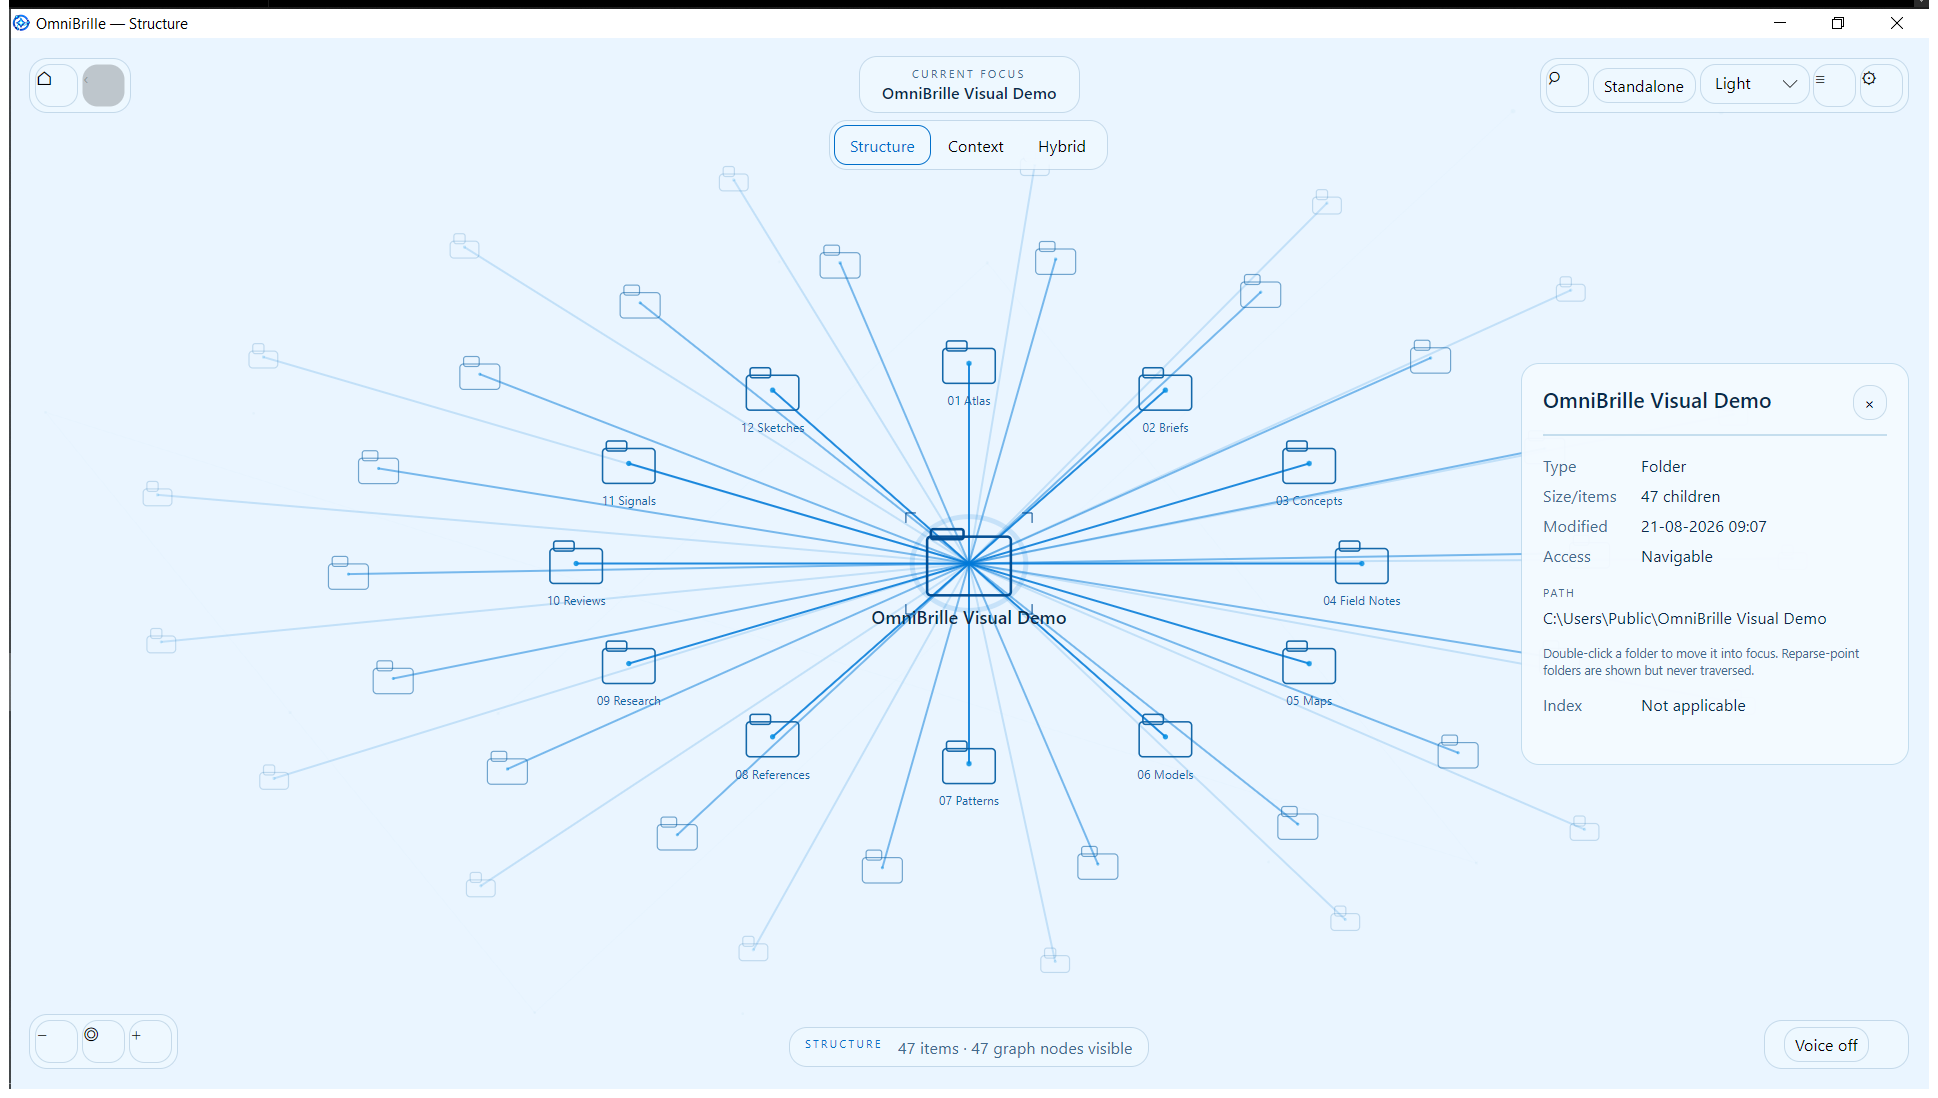
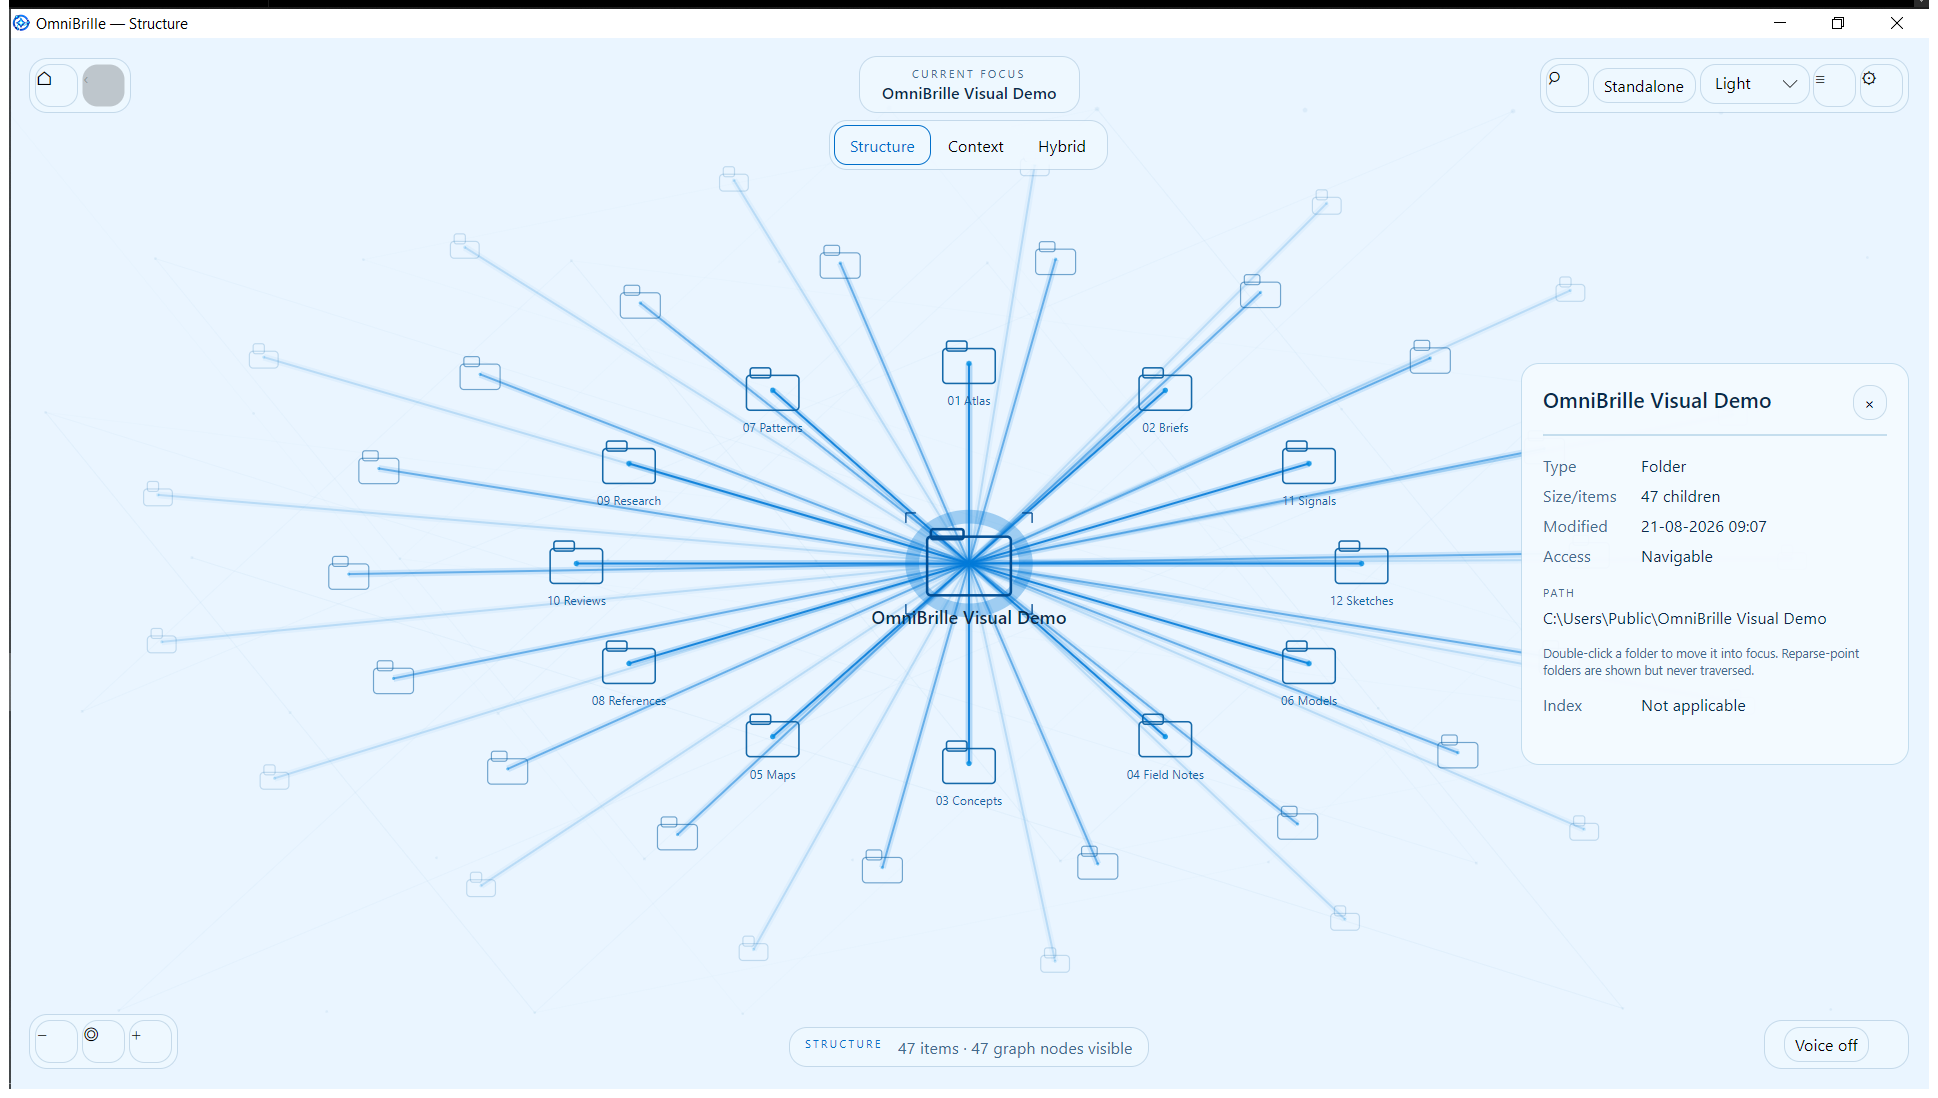
docs: capture default v1.1 visual presentation

diff --git a/docs/assets/screenshots/README.md b/docs/assets/screenshots/README.md
@@ -6,15 +6,15 @@ The `v1.1-*.png` files are real captures of an installed Windows x64 `1.1.0` can
 
 - Capture date: 2026-08-21.
 - Host: Windows 10 build 19045 at 125% display scaling.
-- Visible application commit: `04c6f363f0efd880573e0c1481dbda627cc8e37e`.
[1 lines of base64/hex data omitted]
+- Visible application commit: `d4dfd83e14a855cf50a3b65290b0aacfdf75f845`.
[2 lines of base64/hex data omitted]
 - Executable metadata: file version `1.1.0.0`, product version `1.1.0`.
 - Demo roots: `C:\Users\Public\OmniBrille Visual Demo` and its `09 Research` child.
 - Data: purpose-built generic folders; no personal content, user-profile path, diagnostics, OmniSorSe session, or voice data.
 - Views: dense Dark Structure, dense Light Structure, structural Search for `Research`, nested focus/details, and the synchronized accessible list.
 
-The captures use a Per-Monitor-V2-aware process and the physical Win32 window bounds so the complete 125%-DPI window is represented. They were inspected at full size for native window chrome; floating navigation, mode, Search, utility, zoom, status, voice, and details/list surfaces; graph nodes, labels, outlined glyphs, edges, focus reticle, Search emphasis, and theme contrast. The same installed candidate exercised arrow/Enter navigation, Alt+Left Back, `Ctrl+F` Search, `Ctrl+Shift+L` list access, normal close/relaunch, a real progressive 5,000-file load, and the supported 820-by-520 logical minimum window. Automated headless coverage, rather than this capture session, exercised 100/125/150/200% text scaling and reduced-motion/effects behavior. No screen reader was used.
+The captures use a Per-Monitor-V2-aware process and the physical Win32 window bounds so the complete 125%-DPI window is represented. They use the documented fresh-user visual defaults: Reduced Motion off and Reduced Visual Effects off. They were inspected at full size for native window chrome; floating navigation, mode, Search, utility, zoom, status, voice, and details/list surfaces; graph nodes, labels, outlined glyphs, edges, focus reticle, Search emphasis, and theme contrast. The same installed candidate exercised arrow/Enter navigation, Alt+Left Back, `Ctrl+F` Search, `Ctrl+Shift+L` list access, normal close/relaunch, a real progressive 5,000-file load, the supported 820-by-520 logical minimum window, and both reduced settings enabled. The owner's pre-existing reduced preferences were backed up and restored byte-for-byte after capture. Automated headless coverage exercised 100/125/150/200% text scaling and the deterministic reduced-motion/effects contracts. No screen reader was used.
 
 The images were captured before this provenance file and the PNGs themselves were committed. No visible application or native-renderer source is permitted to change after commit without recapturing them. The eventual exact release installer must still be rebuilt from the final documentation/screenshot commit and separately pass installed-artifact and public-release qualification before these images can be described as release screenshots.
 
